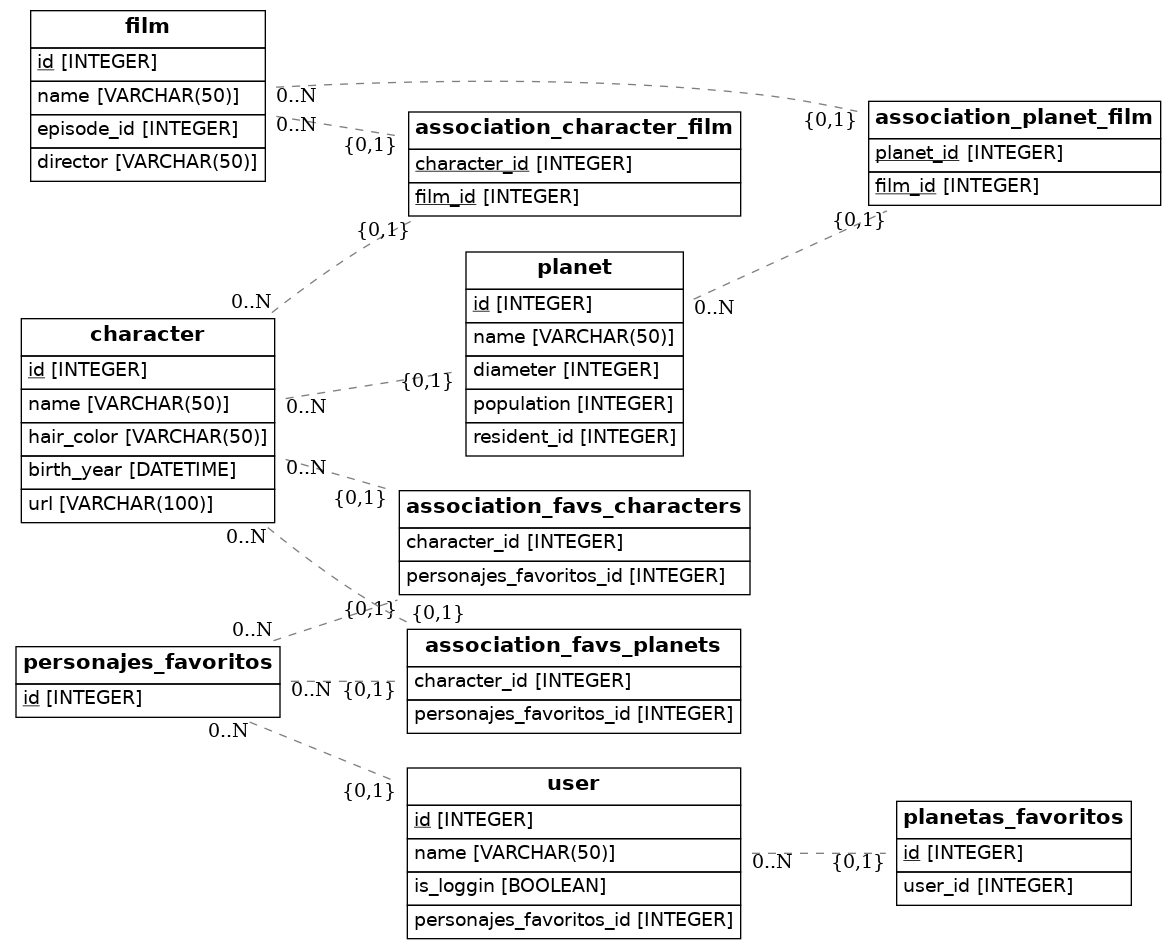
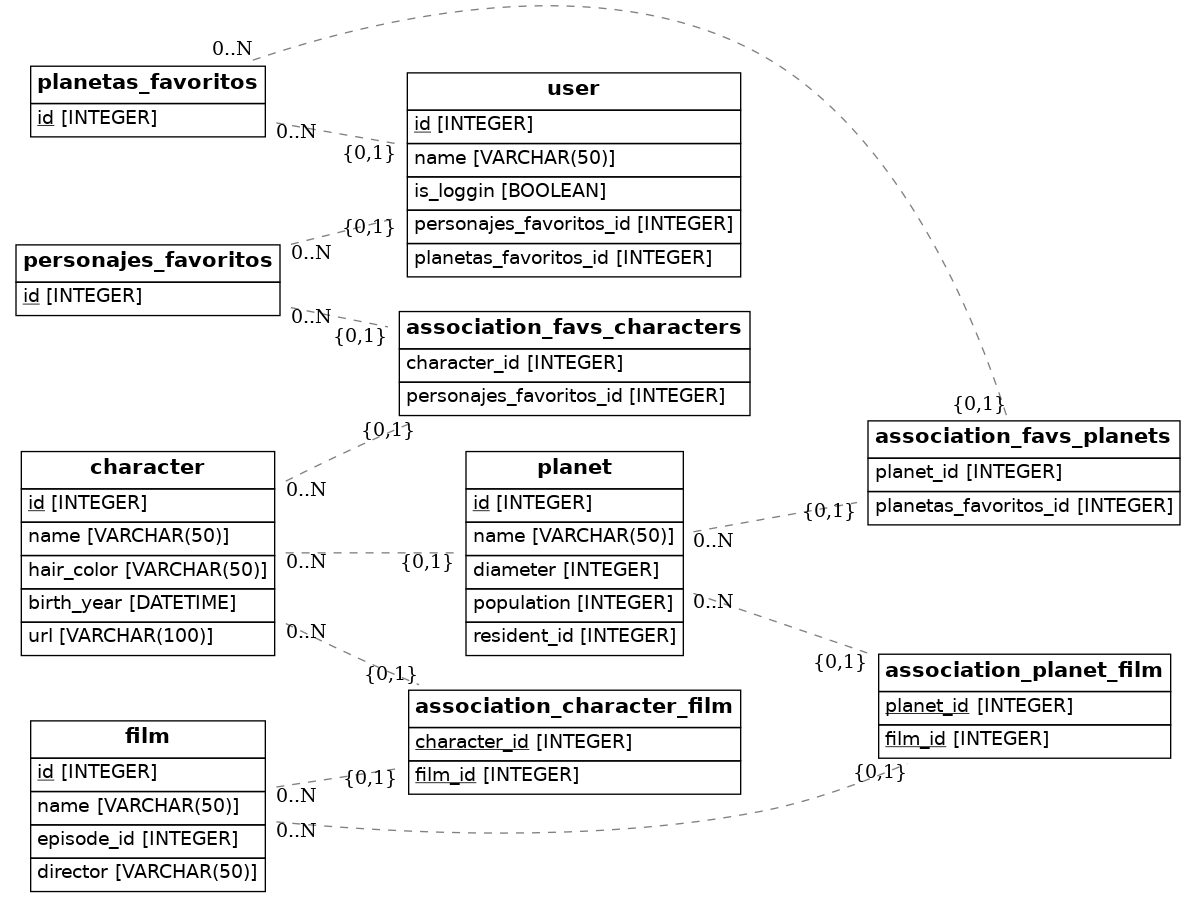
Finalizado

diff --git a/src/models.py b/src/models.py
@@ -33,9 +33,21 @@ association_favs_characters = Table(
 association_favs_planets = Table(
     "association_favs_planets",
     Base.metadata,
-    Column("character_id", ForeignKey("character.id")),
-    Column("personajes_favoritos_id", ForeignKey("personajes_favoritos.id")),
+    Column("planet_id", ForeignKey("planet.id")),
+    Column("planetas_favoritos_id", ForeignKey("planetas_favoritos.id")),
 )
+
+class Favs_planets(Base):
+    __tablename__ = 'planetas_favoritos'
+    id = Column(Integer, primary_key=True)
+    planet = relationship("Planet", secondary=association_favs_planets, back_populates="planetas_favoritos")
+    # user_id = Column(Integer, ForeignKey("user.id"))
+    # user = relationship("User", backref=backref("planetas_favoritos", uselist=False))
+    # planetas_favoritos = relationship(
+    #     "Favs_planets", secondary=association_favs_planets, back_populates="planet"
+    # )
+    # user_id = Column(Integer, ForeignKey("user.id"), unique=True)
+    # user = relationship("User", back_populates="planetas favoritos")
 
 class Favs_characters(Base):
     __tablename__ = 'personajes_favoritos'
@@ -53,6 +65,7 @@ class User(Base):
     name = Column(String(50), nullable=False)
     is_loggin = Column(Boolean, default=False, nullable=False)
     personajes_favoritos_id = Column(Integer, ForeignKey('personajes_favoritos.id'))
+    planetas_favoritos_id = Column(Integer, ForeignKey('planetas_favoritos.id'))
     # favs_characters_id = Column(Integer, ForeignKey(Favs_characters), primary_key=True)
     # friend = relationship('User', foreign_keys='personajes_favoritos.favs_characters_id')
     # friend_id = Column(Integer, ForeignKey(User.id), primary_key=True)
@@ -90,8 +103,8 @@ class Planet(Base):
     )
     resident_id = Column(Integer, ForeignKey("character.id"))
     resident = relationship("Character")
-    planet = relationship(
-        "Favs_planets", secondary=association_favs_planets, back_populates="planetas_favoritos"
+    planetas_favoritos = relationship(
+        "Favs_planets", secondary=association_favs_planets, back_populates="planet"
     )
 
 class Film(Base):
@@ -107,18 +120,6 @@ class Film(Base):
     planet = relationship(
         "Planet", secondary=association_planet_film, back_populates="planets"
     )
-    
-class Favs_planets(Base):
-    __tablename__ = 'planetas_favoritos'
-    id = Column(Integer, primary_key=True)
-    user_id = Column(Integer, ForeignKey("user.id"))
-    user = relationship("User", backref=backref("planetas_favoritos", uselist=False))
-    planetas_favoritos = relationship(
-        "Favs_planets", secondary=association_favs_planets, back_populates="planet"
-    )
-    # user_id = Column(Integer, ForeignKey("user.id"), unique=True)
-    # user = relationship("User", back_populates="planetas favoritos")
-
 
     def to_dict(self):
         return {}
